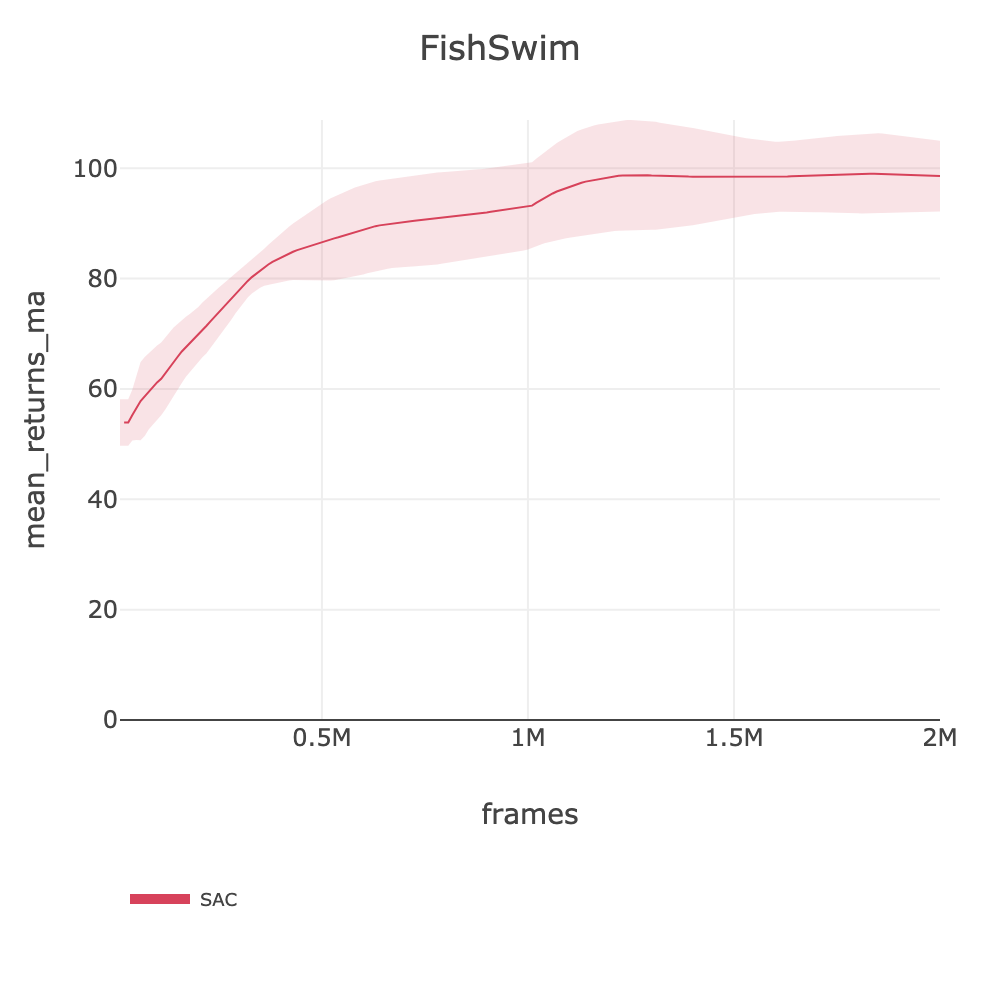
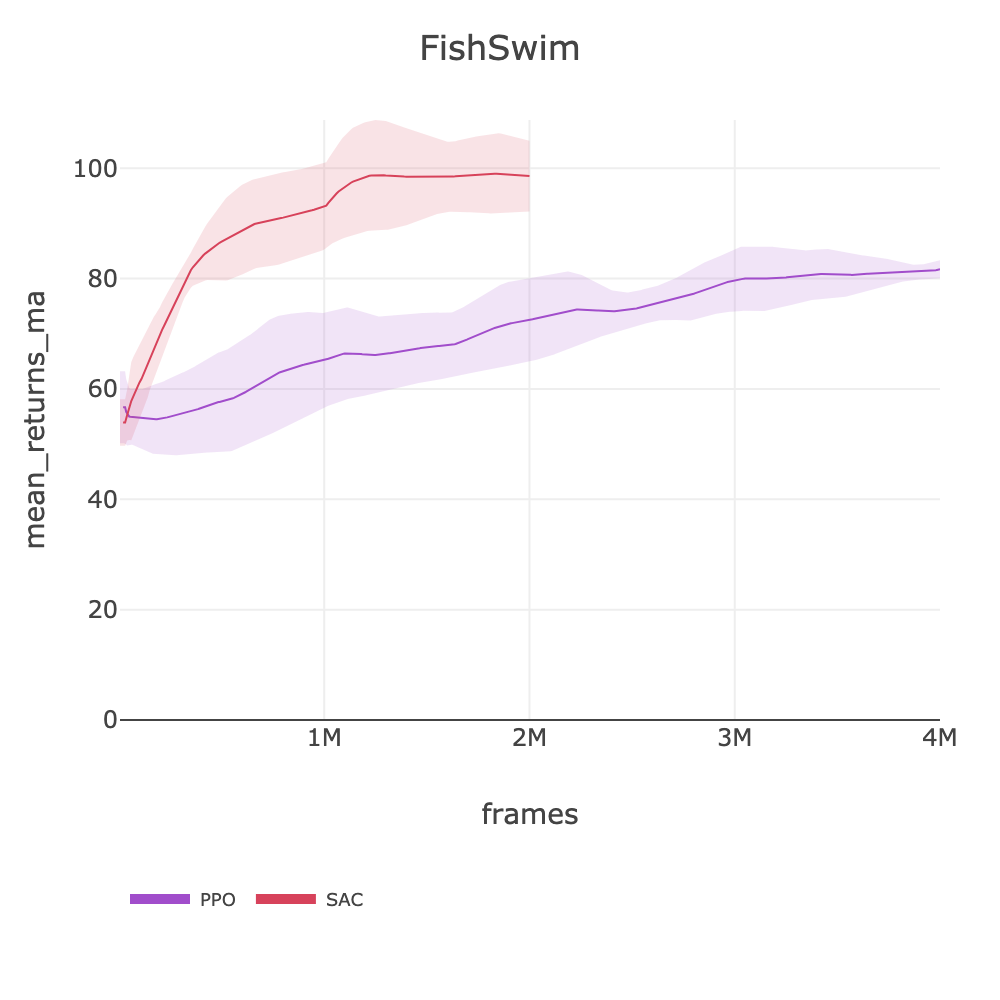
feat: Phase 5 FishSwim PPO 4M (81.68)

diff --git a/docs/BENCHMARKS.md b/docs/BENCHMARKS.md
@@ -809,7 +809,8 @@ source .env && slm-lab run-remote --gpu -s env=playground/CartpoleBalance -s max
 | | SAC | 408.73 | | ~350 (fast/64e) | 1M | ~0.8h | [sac_playground_arc_fingerturneasy_2026_03_06_134326](https://huggingface.co/datasets/SLM-Lab/benchmark-dev/tree/main/data/sac_playground_arc_fingerturneasy_2026_03_06_134326) |
 | playground/FingerTurnHard | PPO | 328.15 | ~249 | ~395 (256e) | 4M | ~2.7h | [ppo_playground_arc_fingerturnhard_2026_03_07_100533](https://huggingface.co/datasets/SLM-Lab/benchmark-dev/tree/main/data/ppo_playground_arc_fingerturnhard_2026_03_07_100533) |
 | | SAC | 198.22 | | ~413 (fast/64e) | 2M | ~1.3h | [sac_playground_arc_fast_fingerturnhard_2026_03_06_181841](https://huggingface.co/datasets/SLM-Lab/benchmark-dev/tree/main/data/sac_playground_arc_fast_fingerturnhard_2026_03_06_181841) |
-| playground/FishSwim | SAC | 98.57 | ~136 | ~114 (baseline/16e) | 2M | ~4.7h | [sac_playground_arc_fishswim_2026_03_06_134402](https://huggingface.co/datasets/SLM-Lab/benchmark-dev/tree/main/data/sac_playground_arc_fishswim_2026_03_06_134402) |
+| playground/FishSwim | PPO | 81.68 | ~136 | ~355 (256e) | 4M | ~3.1h | [ppo_playground_arc_fishswim_2026_03_07_100539](https://huggingface.co/datasets/SLM-Lab/benchmark-dev/tree/main/data/ppo_playground_arc_fishswim_2026_03_07_100539) |
+| | SAC | 98.57 | | ~114 (baseline/16e) | 2M | ~4.7h | [sac_playground_arc_fishswim_2026_03_06_134402](https://huggingface.co/datasets/SLM-Lab/benchmark-dev/tree/main/data/sac_playground_arc_fishswim_2026_03_06_134402) |
 | playground/HopperHop | SAC | 1.56 | ~295 | ~67 (hard/16e) | 1M | ~4.6h | [sac_playground_arc_utd1_hopperhop_2026_03_06_235252](https://huggingface.co/datasets/SLM-Lab/benchmark-dev/tree/main/data/sac_playground_arc_utd1_hopperhop_2026_03_06_235252) |
 | playground/HopperStand | SAC | 277.46 | ~645 | ~350 (fast/64e) | 1M | ~0.8h | [sac_playground_arc_hopperstand_2026_03_06_125934](https://huggingface.co/datasets/SLM-Lab/benchmark-dev/tree/main/data/sac_playground_arc_hopperstand_2026_03_06_125934) |
 | playground/HumanoidRun | SAC | 7.90 | ~11 | ~335 (fast/64e) | 4M | ~3.4h | [sac_playground_arc_fast_humanoidrun_2026_03_07_001036](https://huggingface.co/datasets/SLM-Lab/benchmark-dev/tree/main/data/sac_playground_arc_fast_humanoidrun_2026_03_07_001036) |
